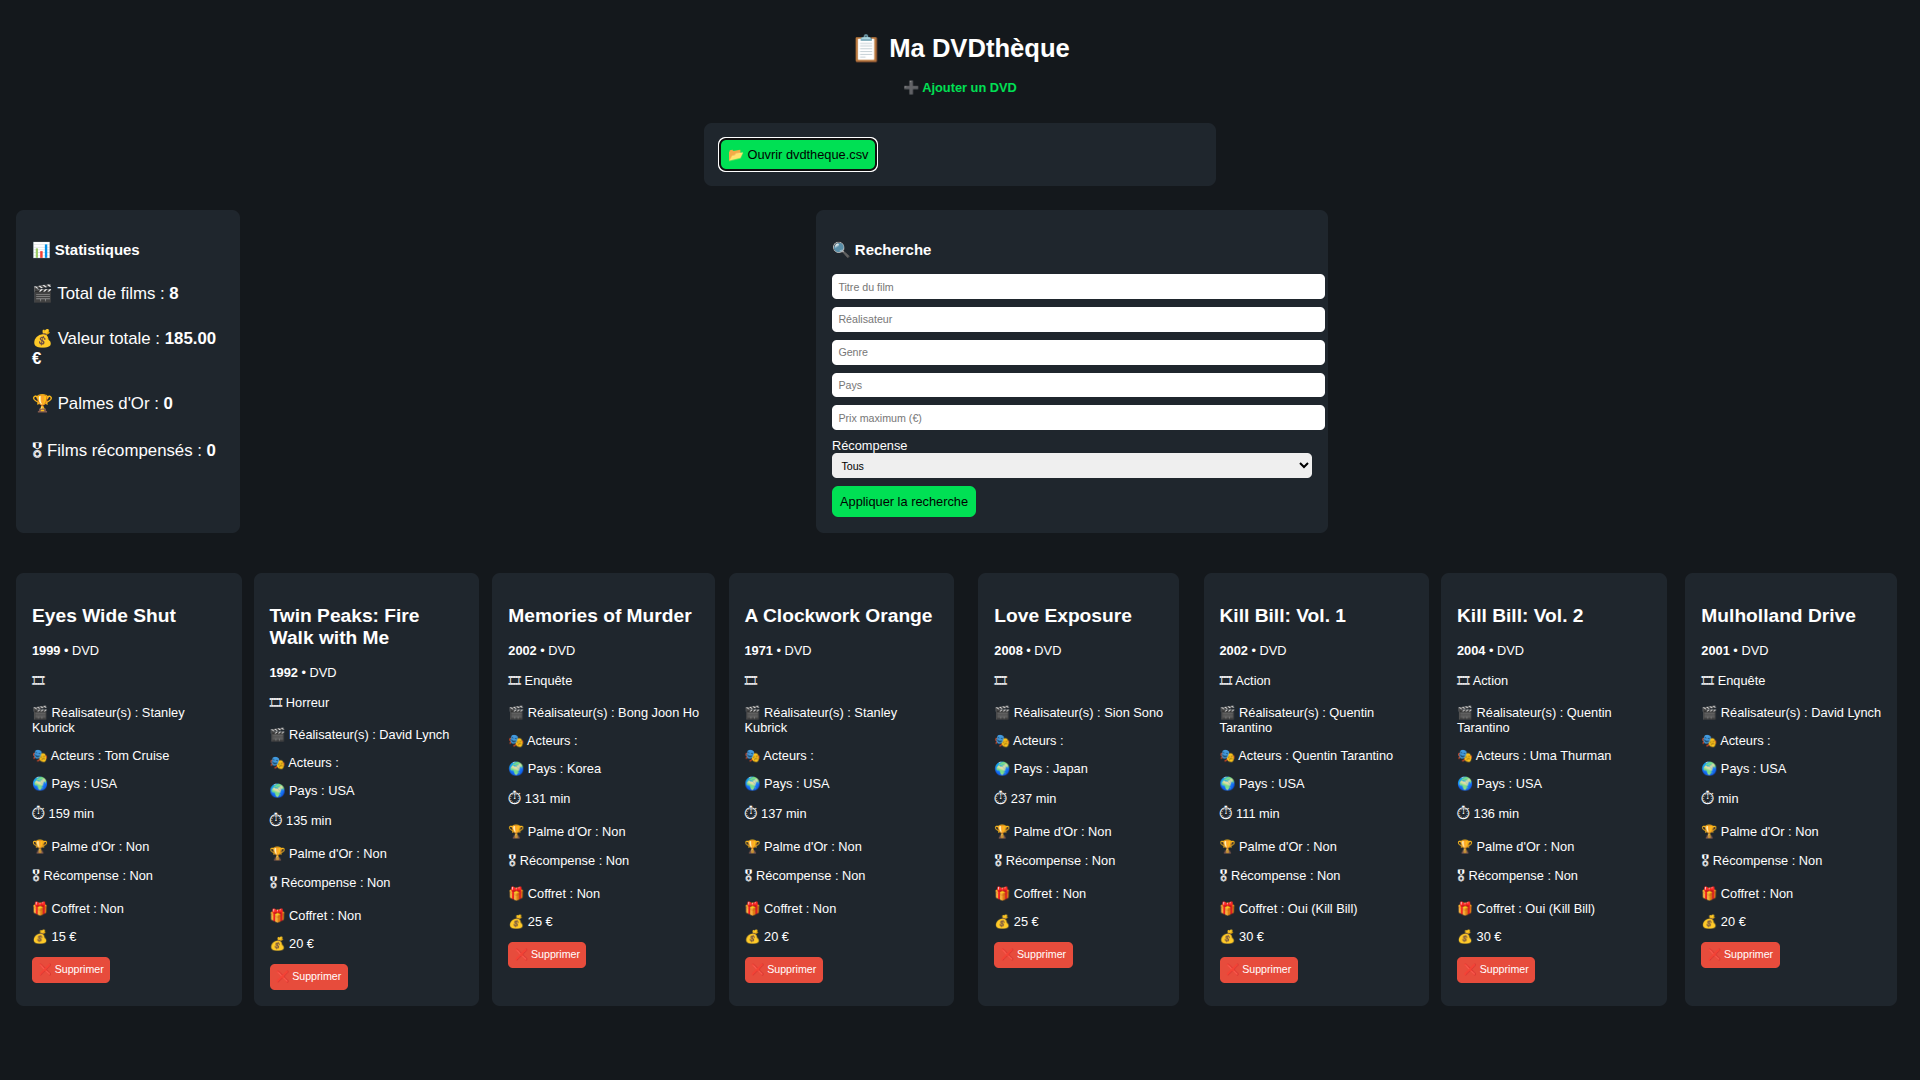
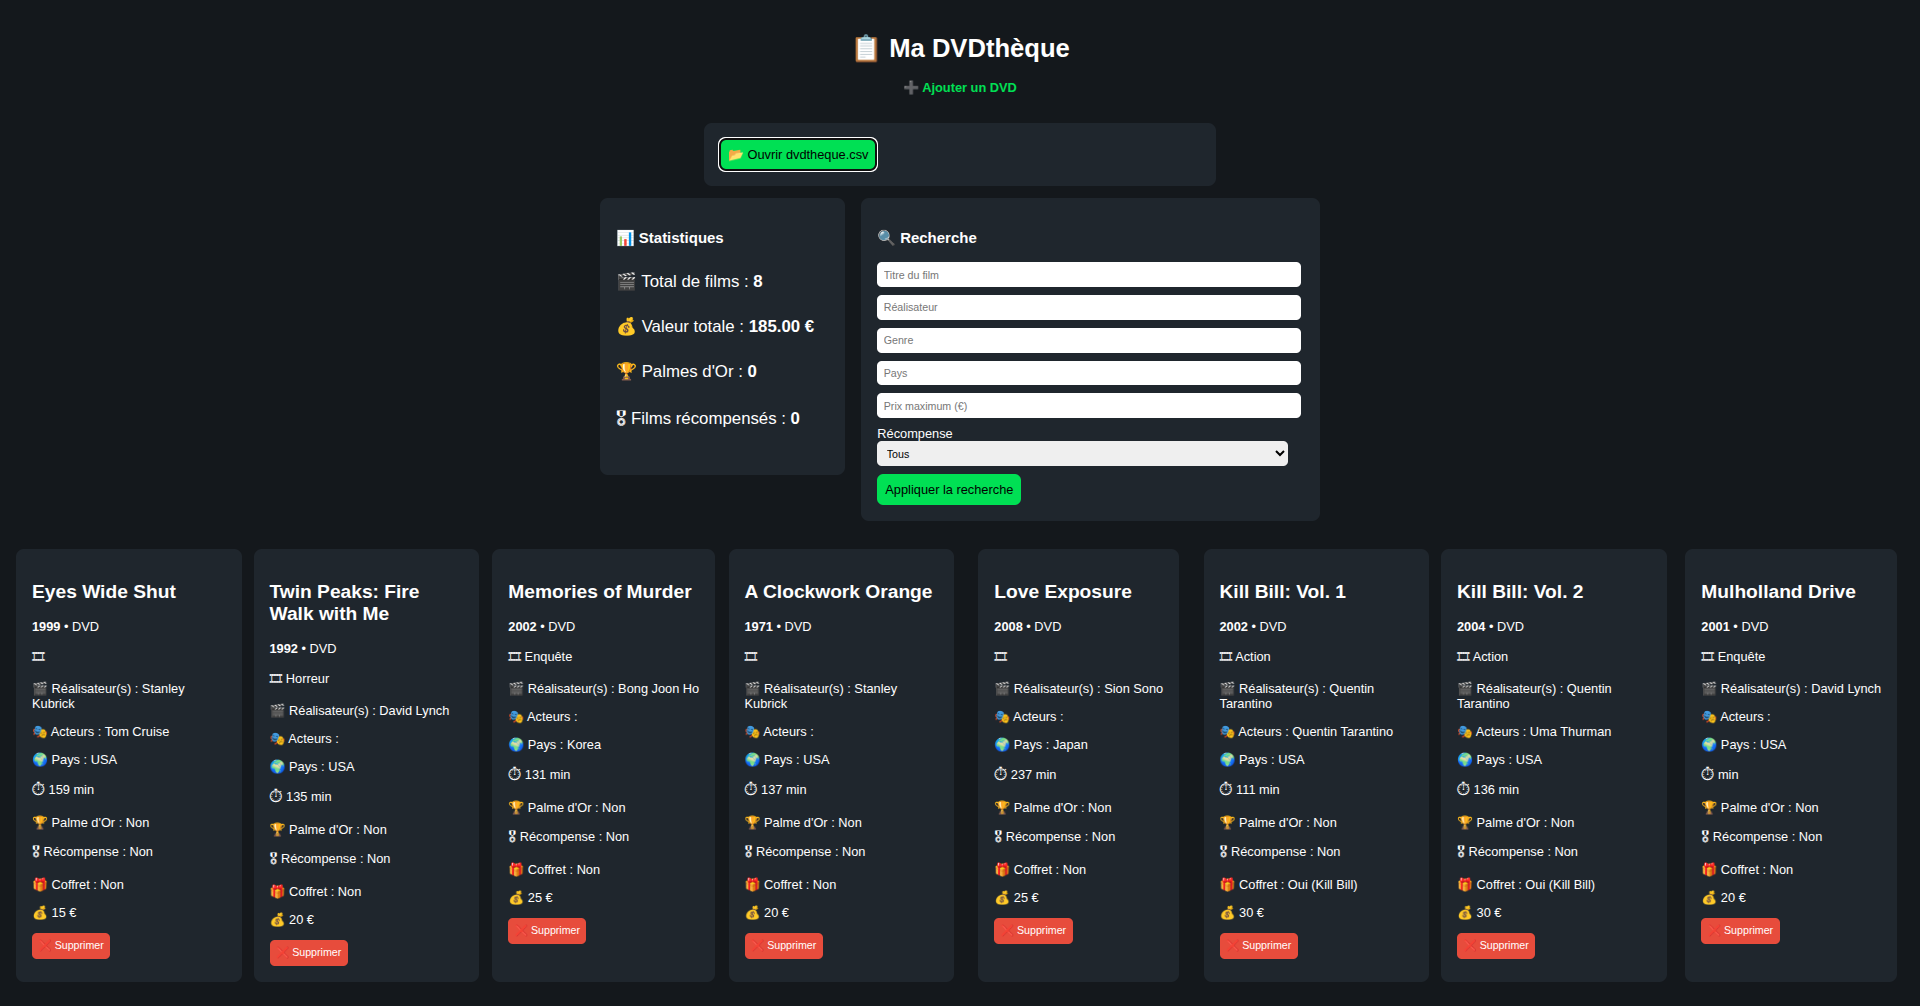
Add files via upload

diff --git a/style.css b/style.css
@@ -4,18 +4,15 @@ body {
   font-family:Arial,sans-serif;
   margin:0;
 }
-
 header {
   text-align:center;
   padding:20px;
 }
-
 .nav-btn {
   color:#00e054;
   font-weight:bold;
   text-decoration:none;
 }
-
 .card {
   background:#1f262d;
   padding:20px;
@@ -23,21 +20,18 @@ header {
   margin:15px auto;
   max-width:600px;
 }
-
 input,select {
-  width:100%;
+  width:calc(100% - 20px);
   padding:8px;
   margin-bottom:10px;
   border-radius:6px;
   border:none;
 }
-
 .checkbox {
   display:flex;
   gap:20px;
   margin-bottom:10px;
 }
-
 .primary {
   background:#00e054;
   border:none;
@@ -45,7 +39,6 @@ input,select {
   border-radius:8px;
   font-size:16px;
 }
-
 .danger {
   background:#e74c3c;
   color:white;
@@ -53,40 +46,46 @@ input,select {
   padding:8px;
   border-radius:6px;
 }
-
 .grid {
   display:grid;
   grid-template-columns:repeat(auto-fill,minmax(260px,1fr));
   gap:15px;
   padding:20px;
 }
-
 .info {
   color:#9ab;
   font-size:14px;
 }
-
 .status {
   font-weight: bold;
   text-align: center;
   margin-bottom: 10px;
 }
-
 .status-off {
   color: #e74c3c;
 }
-
 .status-on {
   color: #00e054;
 }
-
 .search-layout {
-  display: grid;
-  grid-template-columns: 280px 1fr;
-  gap: -200px;
+  display: flex;
+  flex-direction: row;
+  align-items: flex-start;
+  gap: 20px;
   padding: 0 20px;
+  max-width: 900px;
+  margin: 0 auto;
 }
-
+.search-layout .card {
+  margin: 0;
+  max-width: none;
+}
+.search-layout .stats {
+  flex: 1;
+}
+.search-layout .card:not(.stats) {
+  flex: 2;
+}
 .stats p {
   margin: 30px 0;
   font-size: 21px;
